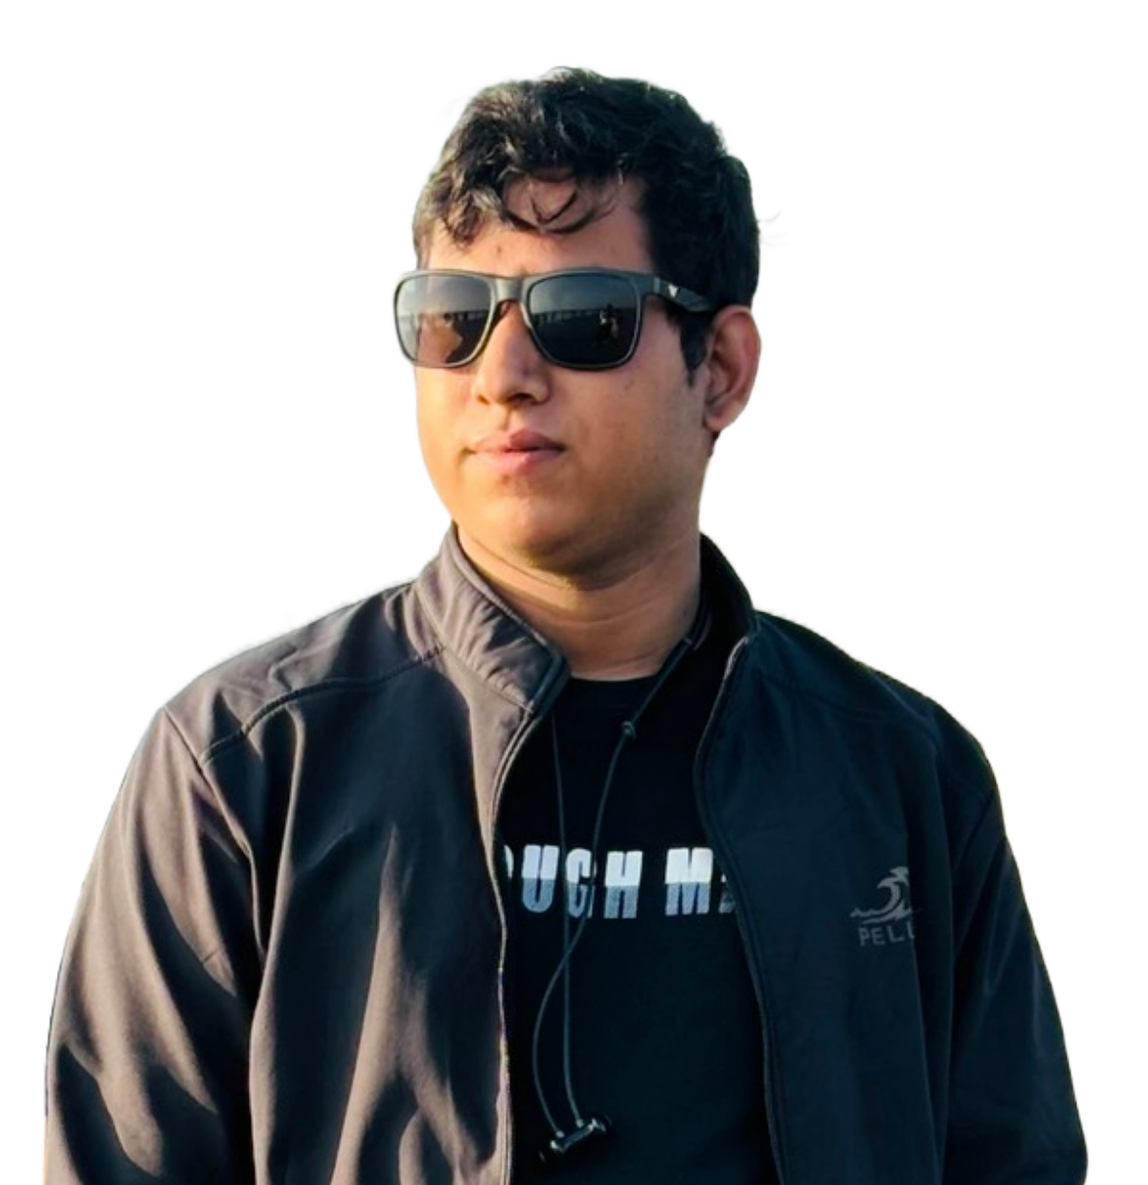
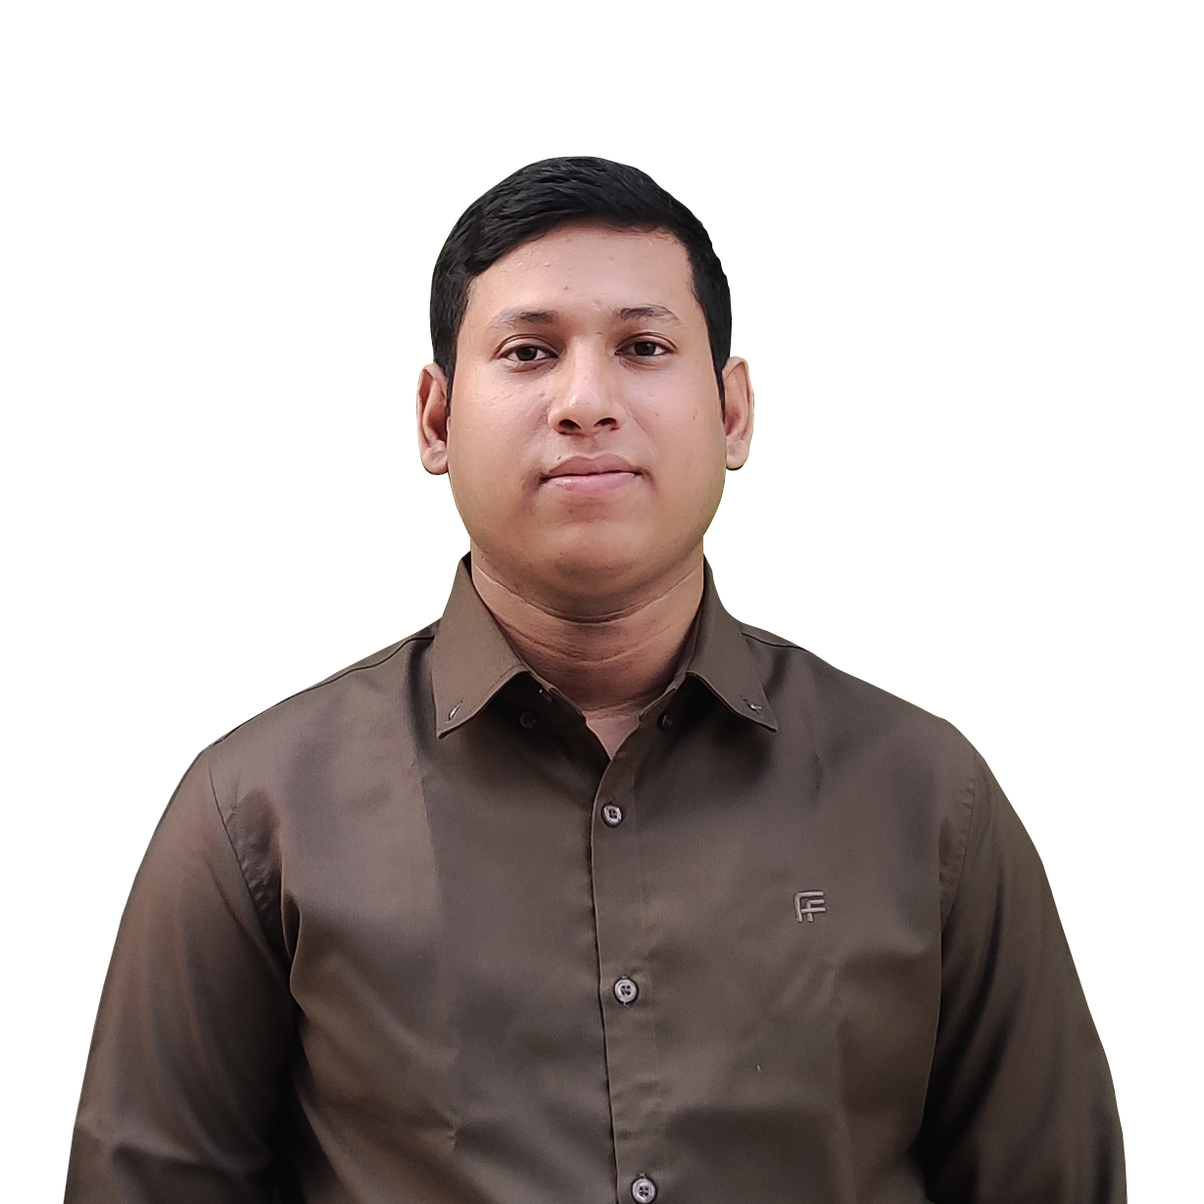
about me page desing change & navbar some problem fix

diff --git a/app/components/Aboutme.tsx b/app/components/Aboutme.tsx
@@ -9,8 +9,8 @@ const Aboutme = () => {
     return (
         <div>
             {/* About Section */}
-            <motion.section 
-                id="about" 
+            <motion.section
+                id="about"
                 className="py-20 sm:py-28 px-4 sm:px-6 lg:px-8 bg-black/80 backdrop-blur-sm relative"
                 initial={{ opacity: 0 }}
                 whileInView={{ opacity: 1 }}
@@ -20,7 +20,7 @@ const Aboutme = () => {
                 <div className="max-w-7xl mx-auto">
                     <div className="h-0.5 w-56 md:w-64 mx-auto mb-2 rounded-full bg-linear-to-r from-cyan-400 via-blue-500 to-purple-500"></div>
                     <motion.h2
-                        className="text-3xl sm:text-4xl md:text-5xl font-bold mb-12 text-center"
+                        className="text-4xl sm:text-4xl md:text-5xl font-bold mb-12 text-center"
                         initial={{ opacity: 0, y: -20 }}
                         whileInView={{ opacity: 1, y: 0 }}
                         transition={{ duration: 0.6 }}
@@ -32,69 +32,69 @@ const Aboutme = () => {
 
                     <div className="grid grid-cols-1 lg:grid-cols-2 gap-12">
                         {/* Bio and Profile Card - Left Side */}
-                        <motion.div 
-                            className="lg:col-span-1 space-y-6"
+                        <motion.div
+                            className="lg:col-span-1 flex justify-center"
                             initial={{ opacity: 0, x: -30 }}
                             whileInView={{ opacity: 1, x: 0 }}
                             transition={{ duration: 0.6 }}
                             viewport={{ once: true }}
                         >
                             {/* Profile Card */}
-                            <div className="flex flex-col items-center justify-start">
-                                <div className="relative w-48 h-48 mb-6 group">
-                                    {/* Glow effect */}
-                                    <div className="absolute inset-0 bg-linear-to-r from-blue-400 via-blue-500 to-blue-400 rounded-full blur-2xl opacity-40 group-hover:opacity-70 transition-all duration-500"></div>
+                            <div className="relative w-full overflow-hidden rounded-3xl border border-white/10 bg-linear-to-b from-white/8 to-white/4 px-6 py-7 text-center shadow-[0_20px_60px_rgba(0,0,0,0.35)] backdrop-blur-sm transition hover:border-cyan-400/20 hover:from-white/10 hover:to-white/5">
+                                <div className="pointer-events-none absolute inset-0">
+                                    <div className="absolute -left-12 -top-16 h-44 w-44 rounded-full bg-cyan-500/10 blur-3xl" />
+                                    <div className="absolute -bottom-16 -right-12 h-52 w-52 rounded-full bg-fuchsia-500/10 blur-3xl" />
+                                </div>
 
-                                    {/* Profile image */}
-                                    <div className="relative bg-blue-500 p-1.5 rounded-full overflow-hidden w-full h-full">
-                                        <Image
-                                            src="/Profile2.jpg"
-                                            alt="Profile"
-                                            width={192}
-                                            height={192}
-                                            className="w-full h-full rounded-full object-cover"
-                                        />
+                                <div className="relative flex flex-col items-center">
+                                    <span className="relative flex h-40 w-40 items-center justify-center rounded-full bg-linear-to-br from-cyan-400 via-blue-500 to-fuchsia-500 p-1.5 shadow-lg shadow-cyan-500/20 sm:h-44 sm:w-44">
+                                        <span className="relative h-full w-full overflow-hidden rounded-full border border-white/15 bg-slate-950">
+                                            <Image
+                                                src="/Profile2.jpg"
+                                                alt="Profile"
+                                                fill
+                                                className="object-cover"
+                                                sizes="176px"
+                                            />
+                                        </span>
+                                    </span>
+
+                                    <div className="mt-5 space-y-2">
+                                        <h3 className="text-2xl font-bold leading-tight bg-linear-to-r from-cyan-300 via-white to-blue-300 bg-clip-text text-transparent">
+                                            Md. Mezbahul Islam
+                                        </h3>
+                                        <p className="text-xs font-semibold uppercase tracking-[0.24em] text-cyan-200/80">
+                                            Department of CSE
+                                        </p>
+                                        <p className="text-base font-medium leading-snug text-slate-200">
+                                            Daffodil International Univiersity
+                                        </p>
                                     </div>
 
-                                    {/* GPA Badge */}
-                                    {/* <div className="absolute -bottom-3 left-1/2 transform -translate-x-1/2 bg-blue-500 text-white px-4 py-2 rounded-full text-xs font-bold shadow-lg whitespace-nowrap flex items-center justify-center">
-                                        3.29 CGPA
-                                    </div> */}
+                                    {/* Bio Section */}
+                                    <p className="mt-6 text-sm leading-relaxed text-slate-300">
+                                        Hi, I&apos;m Md. Mezbahul Islam, and I&apos;m from Bangladesh.
+                                        I am a Web Developer and Graphic Designer.
+                                        Currently, I am studying in the Department of Computer Science and Engineering at Daffodil International University.
+                                        I can build full-stack websites using the MERN stack.
+                                    </p>
+
+                                    <motion.a
+                                        href="/cv.pdf"
+                                        download
+                                        className="mt-8 inline-flex items-center gap-3 rounded-full bg-linear-to-r from-cyan-400 to-blue-500 px-8 py-3.5 text-base font-semibold text-slate-950 shadow-lg shadow-cyan-500/30 transition-all duration-300"
+                                        whileHover={{ scale: 1.06, y: -2 }}
+                                        whileTap={{ scale: 0.97 }}
+                                    >
+                                        <Download className="h-5 w-5" />
+                                        Download CV
+                                    </motion.a>
                                 </div>
-
-                                <h3 className="text-2xl font-bold text-white text-center mt-2">Md. Mezbahul Islam</h3>
-                                <p className="text-gray-400 text-center mt-2">Computer Science Engineering Student</p>
-
-                                {/* Bio Section - After Computer Science Engineering Student */}
-                                <p className="text-gray-400 text-sm leading-relaxed text-center mt-6">
-                                    Hi, I&apos;m Md. Mezbahul Islam, and I&apos;m from Bangladesh.
-                                    I am a Web Developer and Graphic Designer.
-                                    Currently, I am studying in the Department of Computer Science and Engineering at Daffodil International University.
-                                    I can build full-stack websites using the MERN stack.
-                                </p>
-
-                                <div className="flex flex-wrap gap-2 justify-center mt-6">
-                                    <span className="px-3 py-1 bg-blue-500/30 border border-blue-400 text-blue-300 rounded-full text-xs font-semibold">Full Stack</span>
-                                    <span className="px-3 py-1 bg-blue-500/30 border border-blue-400 text-blue-300 rounded-full text-xs font-semibold">React</span>
-                                    <span className="px-3 py-1 bg-blue-500/30 border border-blue-400 text-blue-300 rounded-full text-xs font-semibold">Node</span>
-                                    <span className="px-3 py-1 bg-blue-500/30 border border-blue-400 text-blue-300 rounded-full text-xs font-semibold">MongoDB</span>
-                                </div>
-
-                                <motion.a
-                                    href="/cv.pdf"
-                                    download
-                                    className="mt-8 inline-flex items-center gap-3 rounded-full bg-linear-to-r from-cyan-400 to-blue-500 px-8 py-4 text-lg font-semibold text-slate-950 shadow-lg shadow-cyan-500/30 transition-all duration-300"
-                                    whileHover={{ scale: 1.06, y: -2 }}
-                                    whileTap={{ scale: 0.97 }}
-                                >
-                                    <Download className="h-5 w-5" />
-                                    Download CV
-                                </motion.a>
                             </div>
                         </motion.div>
 
                         {/* Education Section - Right Side (Decreased Width) */}
-                        <motion.div 
+                        <motion.div
                             className="lg:col-span-1"
                             initial={{ opacity: 0, x: 30 }}
                             whileInView={{ opacity: 1, x: 0 }}
@@ -102,14 +102,22 @@ const Aboutme = () => {
                             viewport={{ once: true }}
                         >
                             {/* Education Section */}
-                            <div className="bg-black/50 border border-blue-400/30 rounded-2xl p-8 hover:border-blue-400/60 transition-all duration-300">
-                                <div className="flex items-center gap-3 mb-6">
-                                    <svg className="w-6 h-6 text-blue-400" fill="currentColor" viewBox="0 0 24 24">
-                                        <path d="M5 13.18v4L12 21l7-3.82v-4L12 17l-7-3.82M12 3L1 9l11 6.18L23 9 12 3z" />
-                                    </svg>
-                                    <h4 className="text-2xl font-bold text-white">Education</h4>
+                            <div className="relative h-full overflow-hidden rounded-3xl border border-white/10 bg-linear-to-b from-white/8 to-white/4 p-8 shadow-[0_20px_60px_rgba(0,0,0,0.35)] backdrop-blur-sm transition hover:border-cyan-400/20 hover:from-white/10 hover:to-white/5">
+                                <div className="pointer-events-none absolute inset-0">
+                                    <div className="absolute -left-12 -top-16 h-44 w-44 rounded-full bg-cyan-500/10 blur-3xl" />
+                                    <div className="absolute -bottom-16 -right-12 h-52 w-52 rounded-full bg-fuchsia-500/10 blur-3xl" />
                                 </div>
-                                <div className="space-y-6">
+
+                                <div className="relative">
+                                    <div className="flex items-center gap-3 mb-6">
+                                        <span className="flex h-11 w-11 items-center justify-center rounded-2xl bg-linear-to-br from-cyan-400 via-blue-500 to-fuchsia-500 text-slate-950 shadow-lg shadow-cyan-500/20">
+                                            <svg className="w-6 h-6" fill="currentColor" viewBox="0 0 24 24">
+                                                <path d="M5 13.18v4L12 21l7-3.82v-4L12 17l-7-3.82M12 3L1 9l11 6.18L23 9 12 3z" />
+                                            </svg>
+                                        </span>
+                                        <h4 className="text-2xl font-bold bg-linear-to-r from-cyan-300 via-white to-blue-300 bg-clip-text text-transparent">Education</h4>
+                                    </div>
+                                    <div className="space-y-6">
                                     <div className="flex gap-4 items-stretch justify-between">
                                         <div className="flex-1 min-w-0">
                                             <h5 className="text-lg font-semibold text-white">SSC</h5>
@@ -154,6 +162,7 @@ const Aboutme = () => {
                                             height={112}
                                             className="w-24 h-24 sm:w-28 sm:h-28 rounded-xl object-cover border border-blue-400/30 shadow-lg shadow-blue-500/10 shrink-0 self-center"
                                         />
+                                    </div>
                                     </div>
                                 </div>
                             </div>

diff --git a/app/components/CoursesAndProgramsSection.tsx b/app/components/CoursesAndProgramsSection.tsx
@@ -96,19 +96,18 @@ const CoursesAndProgramsSection = () => {
       <div className="max-w-7xl mx-auto relative z-10">
         {/* Header */}
         <motion.div 
-          className="text-center mb-16"
+          className="text-center mb-8 sm:mb-10"
           initial={{ opacity: 0, y: -20 }}
           whileInView={{ opacity: 1, y: 0 }}
           transition={{ duration: 0.6 }}
           viewport={{ once: true }}
         >
           <p className="text-gray-400 text-xs uppercase tracking-wider mb-4 font-medium">LEARNING JOURNEY</p>
-          <h2 className="text-4xl sm:text-5xl md:text-6xl font-bold mb-4 leading-tight text-white">
-            Courses, Programs &amp; <span className="bg-gradient-to-r from-cyan-400 via-blue-500 to-purple-500 bg-clip-text text-transparent italic font-serif">Contests</span>
+          <h2 className="text-2xl sm:text-3xl md:text-4xl font-bold mb-2 leading-tight">
+            <span className="bg-gradient-to-r from-cyan-400 via-blue-500 to-purple-500 bg-clip-text text-transparent italic font-serif">
+              Courses, Programs &amp; Contests
+            </span>
           </h2>
-          <p className="text-gray-300 text-sm sm:text-base md:text-lg max-w-2xl mx-auto">
-            Expanding knowledge through structured learning, professional programs, and continuous development
-          </p>
         </motion.div>
 
         {/* Tab Navigation */}
@@ -121,7 +120,7 @@ const CoursesAndProgramsSection = () => {
         >
           <motion.button
             onClick={() => setActiveTab('all')}
-            className={`px-6 sm:px-8 py-2.5 sm:py-3 rounded-lg font-semibold cursor-pointer transition-all duration-300 ${
+            className={`px-5 py-2.5 rounded-lg text-sm font-semibold cursor-pointer transition-all duration-300 flex items-center gap-2 ${
               activeTab === 'all'
                 ? 'bg-gradient-to-r from-purple-500 to-pink-500 text-white shadow-lg shadow-purple-500/50'
                 : 'border border-white/30 text-gray-300 hover:border-white/50 hover:text-white'
@@ -133,7 +132,7 @@ const CoursesAndProgramsSection = () => {
           </motion.button>
           <motion.button
             onClick={() => setActiveTab('online')}
-            className={`px-6 sm:px-8 py-2.5 sm:py-3 rounded-lg font-semibold cursor-pointer transition-all duration-300 ${
+            className={`px-5 py-2.5 rounded-lg text-sm font-semibold cursor-pointer transition-all duration-300 flex items-center gap-2 ${
               activeTab === 'online'
                 ? 'bg-gradient-to-r from-cyan-500 to-blue-500 text-white shadow-lg shadow-cyan-500/50'
                 : 'border border-white/30 text-gray-300 hover:border-white/50 hover:text-white'
@@ -145,7 +144,7 @@ const CoursesAndProgramsSection = () => {
           </motion.button>
           <motion.button
             onClick={() => setActiveTab('programs')}
-            className={`px-6 sm:px-8 py-2.5 sm:py-3 rounded-lg font-semibold cursor-pointer transition-all duration-300 ${
+            className={`px-5 py-2.5 rounded-lg text-sm font-semibold cursor-pointer transition-all duration-300 flex items-center gap-2 ${
               activeTab === 'programs'
                 ? 'bg-gradient-to-r from-purple-500 to-pink-500 text-white shadow-lg shadow-purple-500/50'
                 : 'border border-white/30 text-gray-300 hover:border-white/50 hover:text-white'
@@ -157,7 +156,7 @@ const CoursesAndProgramsSection = () => {
           </motion.button>
           <motion.button
             onClick={() => setActiveTab('contests')}
-            className={`px-6 sm:px-8 py-2.5 sm:py-3 rounded-lg font-semibold cursor-pointer transition-all duration-300 ${
+            className={`px-5 py-2.5 rounded-lg text-sm font-semibold cursor-pointer transition-all duration-300 flex items-center gap-2 ${
               activeTab === 'contests'
                 ? 'bg-gradient-to-r from-orange-500 to-red-500 text-white shadow-lg shadow-orange-500/50'
                 : 'border border-white/30 text-gray-300 hover:border-white/50 hover:text-white'

diff --git a/app/components/Homepage.tsx b/app/components/Homepage.tsx
@@ -64,8 +64,8 @@ const Homepage = () => {
                             </motion.div>
 
                             <motion.div variants={itemVariants} className={`${leftFont.className} mt-6 sm:mt-8 flex justify-center lg:justify-start`}>
-                                <span className="rounded-full border border-white/10 bg-white/5 px-5 py-2 text-sm text-slate-200 backdrop-blur-sm">
-                                    Fullstack Developer
+                                <span className="rounded-full font-medium border border-white/10 bg-white/5 px-5 py-2 text-sm text-slate-200 backdrop-blur-sm">
+                                    FULLSTACK DEVELOPER
                                 </span>
                             </motion.div>
 
@@ -122,7 +122,7 @@ const Homepage = () => {
 
                         {/* Right photo column: recreated to match reference */}
                         <motion.div className="relative z-10 order-first lg:order-last flex items-center justify-center lg:justify-end mt-6 sm:mt-8 lg:mt-0" variants={itemVariants} initial="hidden" animate="visible">
-                            <div className="relative w-full max-w-sm sm:max-w-md md:max-w-md flex items-center justify-center group">
+                            <div className="relative w-[86%] max-w-xs sm:w-full sm:max-w-md md:max-w-md flex items-center justify-center group">
                                 {/* soft gradient backdrop behind photo + labels */}
                                 <div
                                     className="absolute -inset-8 rounded-4xl pointer-events-none"
@@ -139,7 +139,7 @@ const Homepage = () => {
                                 </div>
 
                                 <div className="relative overflow-hidden rounded-3xl shadow-2xl shadow-black/40 w-full hover:scale-105 hover:shadow-[0_0_50px_rgba(34,211,238,0.45)] transition-transform duration-300 cursor-pointer">
-                                    <div className="relative w-full h-105 sm:h-115 md:h-115 z-10 bg-linear-to-br from-cyan-700/6 via-blue-800/6 to-purple-700/6 flex items-center justify-center">
+                                    <div className="relative w-full h-90 sm:h-115 md:h-115 z-10 bg-linear-to-br from-cyan-700/6 via-blue-800/6 to-purple-700/6 flex items-center justify-center">
                                         <Image src="/Profile.png" alt="Profile" width={900} height={900} className="object-cover w-full h-full" />
                                     </div>
 

diff --git a/app/NavbarModern.tsx b/app/NavbarModern.tsx
@@ -7,7 +7,7 @@ import { FiCode } from 'react-icons/fi';
 
 export default function NavbarModern() {
   const [isOpen, setIsOpen] = useState(false);
-  const [activeSection, setActiveSection] = useState<string>('');
+  const [activeSection, setActiveSection] = useState<string>('home');
   const [scrolled, setScrolled] = useState(false);
 
   useEffect(() => {
@@ -15,16 +15,17 @@ export default function NavbarModern() {
       setScrolled(window.scrollY > 20);
       
       const sections = ['about', 'projects', 'skills', 'learning', 'contact'];
-      let currentSection = '';
+      let currentSection = 'home';
+      const activationPoint = 120;
 
-      if (window.scrollY < 100) {
+      if (window.scrollY < activationPoint) {
         currentSection = 'home';
       } else {
         for (const sectionId of sections) {
           const element = document.getElementById(sectionId);
           if (element) {
             const rect = element.getBoundingClientRect();
-            if (rect.top <= 100) {
+            if (rect.top <= activationPoint) {
               currentSection = sectionId;
             }
           }
@@ -34,12 +35,14 @@ export default function NavbarModern() {
     };
 
     window.addEventListener('scroll', handleScroll);
+    handleScroll();
     return () => window.removeEventListener('scroll', handleScroll);
   }, []);
 
   const handleNavLinkClick = (e: React.MouseEvent<HTMLAnchorElement>, sectionId: string) => {
     e.preventDefault();
     setIsOpen(false);
+    setActiveSection(sectionId);
     
     // Add small delay to allow menu animation to complete before scrolling
     setTimeout(() => {

diff --git a/app/components/SkillsSection.tsx b/app/components/SkillsSection.tsx
@@ -73,8 +73,8 @@ const SkillsSection = () => {
                     viewport={{ once: true }}
                 >
                     <p className="text-gray-400 text-xs uppercase tracking-wider mb-4 font-medium">MY SKILLSET</p>
-                    <h2 className="text-4xl sm:text-5xl md:text-6xl font-bold mb-4 leading-tight text-white">
-                        The Magic <span className="bg-gradient-to-r from-purple-500 via-pink-500 to-purple-400 bg-clip-text text-transparent italic font-serif">Behind</span>
+                    <h2 className="text-2xl sm:text-3xl md:text-4xl font-bold mb-4 leading-tight text-white">
+                        The <span className="bg-linear-to-r from-cyan-400 via-blue-500 to-purple-500 bg-clip-text text-transparent italic font-serif">Magic Behind</span>
                     </h2>
                 </motion.div>
 

diff --git a/app/components/PhotoGallery.tsx b/app/components/PhotoGallery.tsx
@@ -176,7 +176,7 @@ export default function PhotoGallery() {
             <button
               key={c}
               onClick={() => setActive(c)}
-              className={`px-4 py-2 rounded-lg text-sm font-semibold transition flex items-center gap-2 ${c === active ? "bg-gradient-to-r from-cyan-400 via-blue-500 to-purple-500 text-black shadow-lg" : "bg-white/5 text-white hover:bg-white/10"}`}
+              className={`px-5 py-2.5 rounded-lg text-sm font-semibold cursor-pointer transition flex items-center gap-2 ${c === active ? "bg-gradient-to-r from-cyan-400 via-blue-500 to-purple-500 text-black shadow-lg" : "bg-white/5 text-white hover:bg-white/10"}`}
             >
               <span>{LABELS[c]}</span>
             </button>

diff --git a/app/components/AcademicActivity.tsx b/app/components/AcademicActivity.tsx
@@ -124,7 +124,7 @@ const AcademicActivity = () => {
           viewport={{ once: true }}
         >
           <p className="text-gray-400 text-xs uppercase tracking-wider mb-4 font-medium">ACADEMIC RECORD</p>
-          <h2 className="text-3xl sm:text-4xl md:text-5xl font-bold mb-2 sm:mb-4 leading-tight text-white">
+          <h2 className="text-2xl sm:text-3xl md:text-4xl font-bold mb-2 sm:mb-4 leading-tight text-white">
             {programLabel} <span className="bg-linear-to-r from-cyan-400 via-blue-500 to-purple-500 bg-clip-text text-transparent italic font-serif">Completed Courses</span>
           </h2>
           

diff --git a/app/components/ContactSection.tsx b/app/components/ContactSection.tsx
@@ -31,7 +31,7 @@ const ContactSection = () => {
       <div className="max-w-7xl mx-auto w-full">
         <div className="text-center mb-12">
           <p className="text-gray-400 text-xs uppercase tracking-wider mb-3">GET IN TOUCH</p>
-          <h2 className="text-4xl sm:text-5xl font-bold mb-2">
+          <h2 className="text-2xl sm:text-3xl md:text-4xl font-bold mb-2">
             <span className="bg-linear-to-r from-purple-500 via-pink-500 to-purple-400 bg-clip-text text-transparent italic font-serif">Connect</span>
             <span className="text-white"> with Me</span>
           </h2>

diff --git a/app/components/FeaturedProjects.tsx b/app/components/FeaturedProjects.tsx
@@ -34,7 +34,7 @@ export default function FeaturedProjects() {
     >
       <div className="max-w-7xl mx-auto">
         <motion.h2 
-          className="text-3xl sm:text-4xl md:text-5xl font-bold text-white mb-12 text-center"
+          className="text-2xl sm:text-3xl md:text-4xl font-bold text-white mb-12 text-center"
           initial={{ opacity: 0, y: -20 }}
           whileInView={{ opacity: 1, y: 0 }}
           transition={{ duration: 0.6 }}

diff --git a/app/globals.css b/app/globals.css
@@ -9,7 +9,8 @@ html {
 
 body {
   scroll-behavior: smooth !important;
-  overflow-x: hidden;
+  overflow-x: clip;
+  overflow-y: visible;
 }
 
 /* Link scroll smooth */
